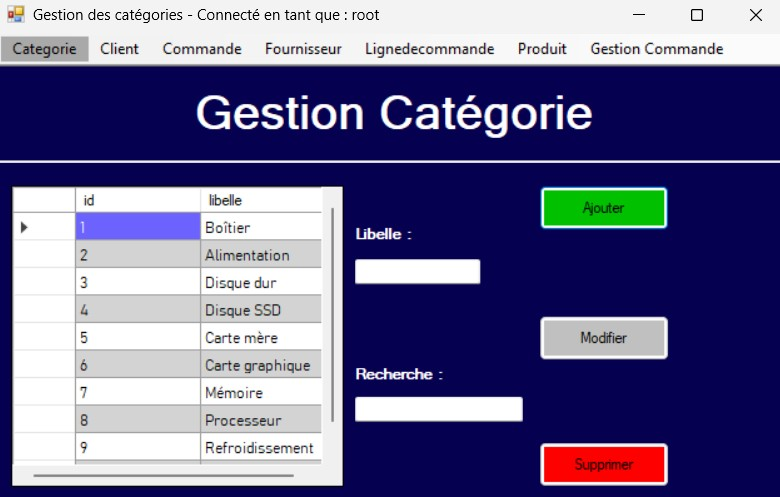
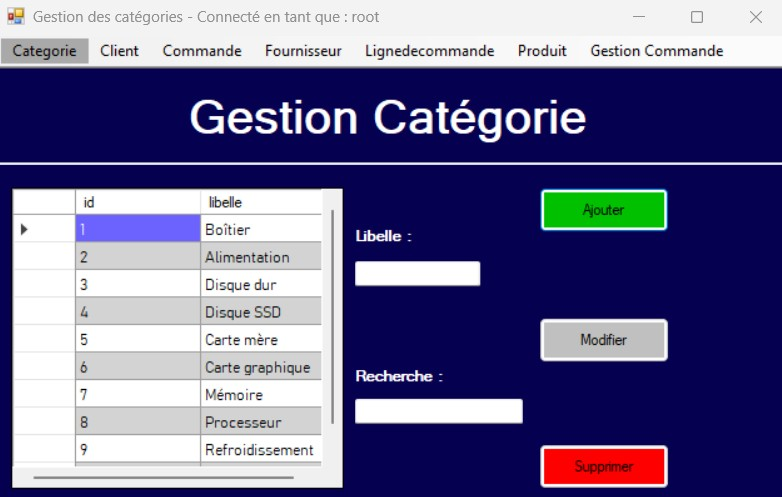
Mise Ã  jour des fichiers modifiÃ©s

diff --git a/PrinBoutique/FrmGestionCategories.Designer.cs b/PrinBoutique/FrmGestionCategories.Designer.cs
@@ -122,7 +122,7 @@
             this.lblGestionCategorie.AutoSize = true;
             this.lblGestionCategorie.Font = new System.Drawing.Font("Microsoft Sans Serif", 27.75F, System.Drawing.FontStyle.Bold, System.Drawing.GraphicsUnit.Point, ((byte)(0)));
             this.lblGestionCategorie.ForeColor = System.Drawing.Color.White;
-            this.lblGestionCategorie.Location = new System.Drawing.Point(211, 19);
+            this.lblGestionCategorie.Location = new System.Drawing.Point(204, 21);
             this.lblGestionCategorie.Margin = new System.Windows.Forms.Padding(4, 0, 4, 0);
             this.lblGestionCategorie.Name = "lblGestionCategorie";
             this.lblGestionCategorie.Size = new System.Drawing.Size(417, 54);

diff --git a/PrinBoutique/FrmGestionLignedecommandes.Designer.cs b/PrinBoutique/FrmGestionLignedecommandes.Designer.cs
@@ -140,7 +140,7 @@
             this.lblLignedecommande.AutoSize = true;
             this.lblLignedecommande.Font = new System.Drawing.Font("Microsoft Sans Serif", 27.75F, System.Drawing.FontStyle.Regular, System.Drawing.GraphicsUnit.Point, ((byte)(0)));
             this.lblLignedecommande.ForeColor = System.Drawing.Color.White;
-            this.lblLignedecommande.Location = new System.Drawing.Point(127, 21);
+            this.lblLignedecommande.Location = new System.Drawing.Point(122, 21);
             this.lblLignedecommande.Margin = new System.Windows.Forms.Padding(4, 0, 4, 0);
             this.lblLignedecommande.Name = "lblLignedecommande";
             this.lblLignedecommande.Size = new System.Drawing.Size(629, 54);
